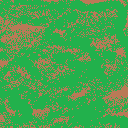
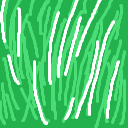
Testing New Graphics
Trying out a new graphical style. Added tiles for filling in diagonal
paths. Changed direction algorithm so that we can safely add new tiles
without messing up the direction  map.

diff --git a/TowerDefense/src/com/group23/TowerDefense/Level/Level.java b/TowerDefense/src/com/group23/TowerDefense/Level/Level.java
@@ -59,7 +59,7 @@ public abstract class Level
 	private void createDirMap()
 	{
 		Arrays.fill(directions, Dir.I);			// Initialize all cells to invalid
-		directions[15] = getStartDir();			// Set the starting cell
+		directions[15] = getStartDir();			// Set the starting cell/*
 		
 		boolean leftEdge; 				// True if current index is on the left edge of the map
 		boolean rightEdge;				// True if current index is on the right edge of the map
@@ -78,7 +78,7 @@ public abstract class Level
 			topEdge = false;
 			bottomEdge = false;
 			
-			// Determine if we are CURRENTLY on an edge
+			// Determine if we are currently on an edge
 			if(i % getWidth() == 0) 
 				leftEdge = true;
 			if(i % getWidth() == getWidth() - 1)
@@ -92,53 +92,56 @@ public abstract class Level
 			// already set the direction of the northern tile, set current tile's direction 
 			// to north and make it our new pathfinding index.
 			// Repeat similar process for all directions.
-			if(topEdge == false && tiles[i-15] != 0 && directions[i-15] == Dir.I)
+			if(topEdge == false && tiles[i-15] == 1 && directions[i-15] == Dir.I)
 			{
 				directions[i] = Dir.N;
 				i = i-15;
 			}
 			// East is 1 tile forward
-			else if(rightEdge == false && tiles[i+1] != 0 && directions[i+1] == Dir.I)
+			else if(rightEdge == false && tiles[i+1] == 1 && directions[i+1] == Dir.I)
 			{	
 				directions[i] = Dir.E;
 				i = i+1;
 			}
 			// South is 15 tiles forward
-			else if(bottomEdge == false && tiles[i+15] != 0 && directions[i+15] == Dir.I)
+			else if(bottomEdge == false && tiles[i+15] == 1 && directions[i+15] == Dir.I)
 			{
 				directions[i] = Dir.S;
 				i = i+15;
 			}
 			// West is 1 tile backwards
-			else if(leftEdge == false && tiles[i-1] != 0 && directions[i-1] == Dir.I)
+			else if(leftEdge == false && tiles[i-1] == 1 && directions[i-1] == Dir.I)
 			{
 				directions[i] = Dir.W;
 				i = i-1;
 			}
 			// NE is 14 tiles backwards
-			else if(topEdge == false && rightEdge == false && tiles[i-14] != 0 && directions[i-14] == Dir.I)
+			else if(topEdge == false && rightEdge == false && tiles[i-14] == 1 && directions[i-14] == Dir.I)
 			{
 				directions[i] = Dir.NE;
 				i = i-14;
 			}
 			// SE is 16 tiles forwards
-			else if(bottomEdge == false && rightEdge == false && tiles[i+16] != 0 && directions[i+16] == Dir.I)
+			else if(bottomEdge == false && rightEdge == false && tiles[i+16] == 1 && directions[i+16] == Dir.I)
 			{
 				directions[i] = Dir.SE;
 				i = i+16;
 			}
 			// SW is 14 tiles forwards
-			else if(bottomEdge == false && leftEdge == false && tiles[i+14] != 0 && directions[i+14] == Dir.I)
+			else if(bottomEdge == false && leftEdge == false && tiles[i+14] == 1 && directions[i+14] == Dir.I)
 			{
 				directions[i] = Dir.SW;
 				i = i+14;
 			}
 			// NW is 16 tiles backwards
-			else if(topEdge == false && leftEdge == false && tiles[i-16] != 0 && directions[i-16] == Dir.I)
+			else if(topEdge == false && leftEdge == false && tiles[i-16] == 1 && directions[i-16] == Dir.I)
 			{
 				directions[i] = Dir.NW;
 				i = i-16;
 			}
+			
+			else
+				break;
 		}	
 		// Loop exited since we are on a base tile, so make this the end tile
 		directions[i] = Dir.End;

diff --git a/TowerDefense/src/com/group23/TowerDefense/TowerDefense.java b/TowerDefense/src/com/group23/TowerDefense/TowerDefense.java
@@ -45,11 +45,16 @@ public class TowerDefense extends Game
 		Button.health  = new Texture(Gdx.files.internal("health.png"));
 		Button.gold    = new Texture(Gdx.files.internal("gold.png"));
 		
-		Level.textures    = new Texture[4];
+		Level.textures    = new Texture[8];
 		Level.textures[0] = new Texture(Gdx.files.internal("tile00.png"));
 		Level.textures[1] = new Texture(Gdx.files.internal("tile01.png"));
 		Level.textures[2] = new Texture(Gdx.files.internal("tile02.png"));
 		Level.textures[3] = new Texture(Gdx.files.internal("tile03.png"));
+		Level.textures[4] = new Texture(Gdx.files.internal("tile04.png"));
+		Level.textures[5] = new Texture(Gdx.files.internal("tile05.png"));
+		Level.textures[6] = new Texture(Gdx.files.internal("tile06.png"));
+		Level.textures[7] = new Texture(Gdx.files.internal("tile07.png"));
+		
 		
 		// initialize static batches
 		spriteBatch   = new SpriteBatch();

diff --git a/TowerDefense/src/com/group23/TowerDefense/Level/Level1.java b/TowerDefense/src/com/group23/TowerDefense/Level/Level1.java
@@ -14,12 +14,12 @@ public class Level1 extends Level
 		return new int[]
 			{
 				0, 0, 0, 0, 0, 0, 0, 0, 0, 1, 1, 1, 1, 0, 0,		//Bottom Right
-				1, 0, 0, 0, 0, 0, 0, 0, 0, 1, 0, 0, 1, 0, 2,
-				1, 0, 0, 0, 0, 0, 0, 0, 0, 0, 1, 0, 1, 1, 2,
-				1, 0, 0, 1, 1, 1, 1, 0, 1, 1, 1, 0, 0, 0, 2,		
-				1, 0, 1, 0, 0, 0, 1, 0, 1, 0, 0, 0, 0, 0, 0,
-				1, 0, 1, 0, 0, 1, 0, 0, 1, 1, 1, 1, 0, 0, 0,
-				1, 1, 1, 0, 1, 0, 0, 0, 0, 0, 0, 1, 0, 0, 0,
+				1, 0, 0, 0, 0, 0, 0, 0, 0, 1, 4, 0, 1, 0, 2,
+				1, 0, 0, 0, 0, 0, 0, 0, 0, 6, 1, 0, 1, 1, 2,
+				1, 0, 5, 1, 1, 1, 1, 0, 1, 1, 1, 0, 0, 0, 2,		
+				1, 0, 1, 7, 0, 5, 1, 0, 1, 0, 0, 0, 0, 0, 0,
+				1, 0, 1, 0, 5, 1, 7, 0, 1, 1, 1, 1, 0, 0, 0,
+				1, 1, 1, 0, 1, 7, 0, 0, 0, 0, 0, 1, 0, 0, 0,
 				0, 0, 0, 0, 1, 1, 1, 1, 1, 1, 1, 1, 0, 0, 0			//Top Right
 			};
 	}
